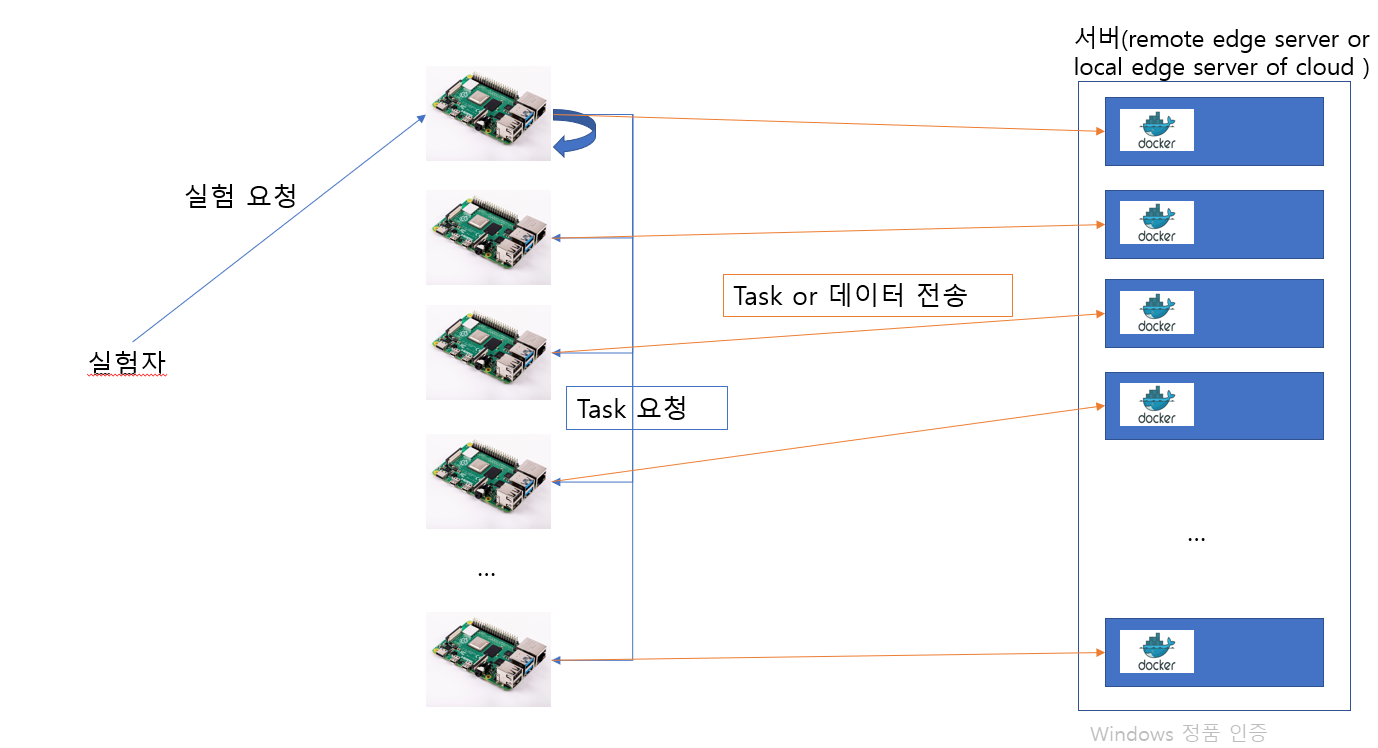
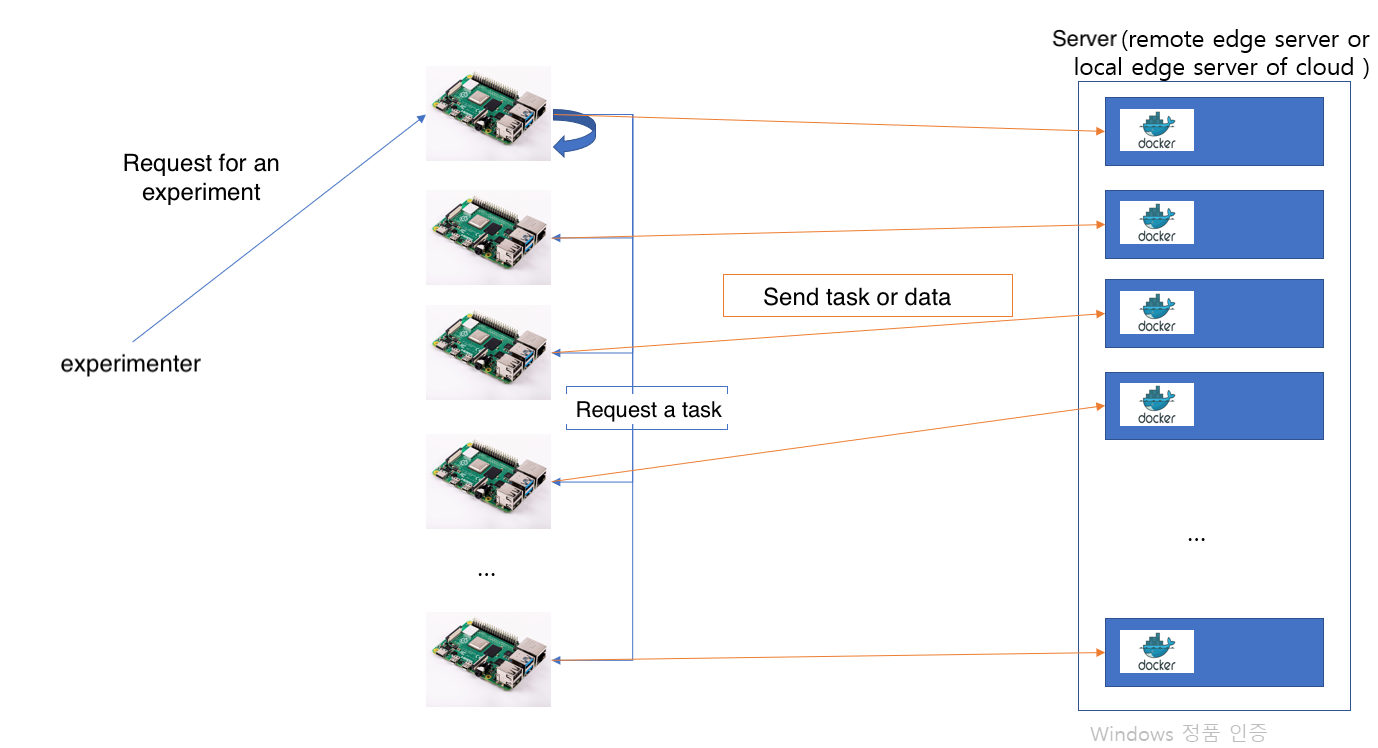
Translate client README.md into English

diff --git a/code/client/Readme.md b/code/client/Readme.md
@@ -1,149 +1,146 @@
 DOM Client Readme
-* client 폴더
-    * client_app_image.py : 이미지 추론 관련 api 및 함수
-    * client_batch_zip.py : 이미지 압축을 batch로 나누어 압축 후 전송(실험 하려 했으나 무산, 코드가 제대로 작동하는지는 확인 해봐야함.)
-    * client_combine.py : 영상 데이터와 이미지 데이터를 같이 전송하는 실험 관련 api 및 함수
-    * client image.py : 이미지 전송 관련 api 및 함수 
-    * client_mqtt.py : mqtt 전송 관련 api 및 함수
-    * client_socket.py : socket을 이용한 전송 관련 api 및 함수 
-    * client_text.py : text 데이터 전송 관련 api 및 함수
-    * client_video.py : 영상 데이터 전송 관련 api 및 함수 
-* app.py : main (실행)
-* client_request.py : request 관련 코드 
-* config.py : device 별 config 값 세팅(git ignore)
+* client folder 
+    * client_app_image.py : APi and functions related to Image inference 
+    * client_batch_zip.py : Compress and transfer the image by dividing it into batches
+    * client_combine.py : Experiment-related api and functions that transmit image data and image data together
+    * client image.py : APi and functions related to image transfer 
+    * client_mqtt.py : APi and functions related to mqtt transfer
+    * client_socket.py : APi and functions related to transmission using sockets 
+    * client_text.py : APi and functions related to text data transfer
+    * client_video.py : APi and functions related to video data transfer 
+* app.py : main (run)
+* client_request.py : Request related code
+* config.py : Setting the config value by device (git ignore)
     ```
     IP = {
-    'video_path': '/home/dom/dom/videos/',  # 영상 데이터가 저장된 위치
-    'img_path' : '/home/dom/dom/images/',   # 이미지 데이터가 저장된 위치
-    'server': '155.230.36.27:50011', # DOM: 데이터를 보낼 서버 주소, 현재 DOM 구조 상 각 디바이스 별로 주소가 다르므로 디바이스 별로 따로 세팅 해줘야함. KSV 에서는 사용하지 않아서 신경쓸 필요 X
-    'clients':['155.230.36.58','155.230.36.220','155.230.36.221','155.230.36.222','155.230.36.241','155.230.36.248','155.230.36.250','155.230.36.244','155.230.36.249','155.230.36.242','155.230.36.243','155.230.36.245','155.230.36.246','155.230.36.247','155.230.36.251','155.230.36.252','155.230.36.253'],# DOM: control(?)할 device에만 전체 IP를 작성해주고 나머지 device에서는 따로 신경쓰지 않아도 된다.  KSV 에서는 사용하지 않아서 신경쓸 필요 X
-    'socket_host': '59.27.74.76', # socket 전송 시 서버 IP, 기기별로 변경
-    'socket_post' : '50025',  # socket 전송시 사용한  port, 기기별로 변경
-    'webdav' : '/home/dom/webdav/',  # KSV : webdav 공유 폴더 , 이미지 추론 결과 저장
-    'volumeID': 'pod1' # KSV 데모시 사용
+    'video_path': '/home/dom/dom/videos/',  # Location where image data is stored
+    'img_path' : '/home/dom/dom/images/',   # Location where the image data is stored
+    'server': '155.230.36.27:50011', # DOM: Server address to send data / due to the current DOM structure, the address is different for each device, so it is necessary to set it separately for each device.
+    'clients':['155.230.36.58','155.230.36.220','155.230.36.221','155.230.36.222','155.230.36.241','155.230.36.248','155.230.36.250','155.230.36.244','155.230.36.249','155.230.36.242','155.230.36.243','155.230.36.245','155.230.36.246','155.230.36.247','155.230.36.251','155.230.36.252','155.230.36.253'],# DOM: Write the entire IP only on the device to be controlled, and you don't have to pay attention to the rest of the devices.
+    'socket_host': '59.27.74.76', # Server IP, changing by device when sending sockets
+    'socket_post' : '50025',  # Server port, changing by device when sending sockets
     }
     ```
-* image_classification.py : 이미지 추론 코드
-* videoCompress.py : 영상 압축 코드 -> zip으로 압축 아닌 ffmpeg로 영상 압축, 영상 자체의 용량을 줄여줌
-* socket_client.py : socket 전송(udp, tcp)
-* update_device.py : 전체 pi기기 코드 업데이트(git)
+* image_classification.py : Image inference code
+* videoCompress.py : Image compression code -> Compress the image with ffmpeg rather than zip, reducing the capacity of the image itself.
+* socket_client.py : Socket transfer(udp, tcp)
+* update_device.py : Update full Raspberry pi's code (git)
 
 
-* upload.py 전체 코드 (합쳐져 있는 코드)
 
-## server와 client의 구조
-![구조](image/structure.PNG)
+## How server and client work
+![structure](image/structure.PNG)
 
 
-## 이외의 TIP
+## TIP
 ---
-* IP 변경되면 PI 기기의 /etc/hosts/ 의 dom IP변경 해주기
+* If IP is changed, change the dom IP of /etc/hosts/ of the PI device.
 
 
-* 일반 계정 git pull 권한 해결
+* Resolve general account git pull permissions
 sudo chmod a+rwx .git/FETCH_HEAD
 
-* gitlab id/password 저장
+* Save gitlab id/password
 git config --global credential.helper store
 
-* API Curl 명령어 예시
+* API Curl Command Example
 
 ```
-모든 디바에스에게 (비디오) 
+To all devices (video) 
 curl -d "limit=16&is_zip=T" -X POST http://ip:port/upload_all_video
-한 디바이스에게 (비디오)
+To one device (video)
 curl -d "limit=16" -X POST http:ip:port/upload_video
-한 디바이스에게(비디오 압축)
+To one device (Video compression)
 curl -d "limit=16" -X POST http:ip:port/upload_video_zip
 
-모든 디바이스에게(비디오 전체 한번에 압축) limit 그대로 (40)
+To all devices (Compress the entire video at once) limit remains the same (40)
 curl -d "limit=16" -X POSt http:ip:port/upload_all_video_zip
-한 디바이스에게(이미지 전체 한번에 압축)
+To one device(Compress the entire image at once)
 curl -d "limit=16" -X POST http:ip:port/upload_zip_all
 
-모든 디바이스에게 (이미지)
+To all devices (image)
 curl -d "img_cnt=10000&is_predict=F&is_zip=F" -X POST http:ip:port/upload_all_img
-한 디바이스에게 (이미지)
+To one device (image)
 curl -d "img_cnt=10000&is_predict=T" -X POST http:ip:port/upload_image
-한 디바이스에게(이미지 압축)
+To one device(image compression)
 curl -d "img_cnt=10000&is_predict=T" -X POST http:ip:port/upload_image_zip
 
-모든 디바이스에게(이미지 전체 한번에 압축)
+To all devices (Compress the entire image at once)
 curl -d "img_cnt=10000" -X POSt http:ip:port/upload_all_img_zip
-한 디바이스에게(이미지 전체 한번에 압축)
+To one device(Compress the entire image at once)
 curl -d "img_cnt=10000" -X POST http:ip:port/upload_img_zip_all
 
-모든 디바이스에게(이미지 batch 압축)
+To all devices (Image batch compression)
 curl -d "img_cnt=10000&batch=2" -X POST http://ip:port/upload_batch_img_zip
 curl -d "img_cnt=10000&batch=2" -X POST http://ip:port/upload_img_zip_batch
 
-모든 디바이스에게 데이터 이질성 : 
-img_cnt == 0 일경우 video 100%
-limit == 0 일 경우 img 100%
+To all devices (Data heterogeneity) : 
+if img_cnt == 0, video 100%
+if limit == 0, img 100%
 curl -d "img_cnt=80000&limit=16" -X POST http://ip:port/upload_hetero
 
-모든 디바이스에게(mqtt, 비디오)
+To all devices (mqtt, video)
 curl -d "limit=16" -X POST http://ip:port/upload_all_video_mqtt
-한 디바이스에게 (mqtt, 비디오)
+To one device (mqtt, video)
 curl -d "limit=16" -X POST http:ip:port/upload_video_mqtt
 
-모든 디바이스에게(mqtt, 이미지)
+To all devices(mqtt, image)
 curl -d "img_cnt=10000" -X POST http://ip:port/upload_all_image_mqtt
-한 디바이스에게 (mqtt, 이미지)
+To one device (mqtt, image)
 curl -d "img_cnt=10000" -X POST http:ip:port/upload_image_mqtt
 
 jupyter notebook --ip=155.230.34.159 --port=50000
 
-모든 디바이스에게 (mqtt, text)
+To all devices (mqtt, text)
 curl -d "limit=16" -X POST http://ip:60000/upload_all_txt_mqtt
-한 디바이스에게 (mqtt, text)
+To one device (mqtt, text)
 curl -d "limit=16" -X POST http://ip:60000/upload_txt_mqtt
 
 
-모든 디바이스에게 이미지 인식 딥러닝 처리1 요청(디바이스 내에서 처리)
+Image recognition deep learning processing 1 request from all devices(Processing within a device)
 curl -d "img_cnt=10000" -X POST http://ip:port/image/app/device
-한 디바이스에게 이미지 인식 딥러닝 처리1 요청
+Image recognition deep learning processing 1 request from one device
 curl -d "img_cnt=10000" -X POST http://ip:port/imagenet1_each
 
-모든 디바이스에게 이미지 인식 딥러닝 처리 2 요청(50 + 50)
+Image recognition deep learning processing 2 request from all devices(50 + 50)
 curl -d "img_cnt=10000" -X POST http://ip:port/image/app/offloading/half/each
 
-모든 디바이스에게 이미지 인식 딥러닝처리 3 요청 100%서버 오프로딩
+Image recognition deep learning processing 3 request from all devices 100% Server Offloading
 curl -d "img_cnt=10000" -X POST http://ip:port/image/app/offloading/full
 
 
-모든 디바이스 영상 모션 인식 딥러닝 처리1 요청
+Request all devices to process image motion recognition deep learning 1
 curl -d "limit=16" -X POST http://ip:60000/video1
-모든 디바이스 영상 모션 인식 딥러닝 처리2 (50 + 50)
+Request all devices to process image motion recognition deep learning 2 (50 + 50)
 curl -d "limit=16" -X POST http://ip:60000/video2
-모든 디바이스 영상 모션 인식 딥러닝처리3 100% 서버 오프로딩
+Request all devices to process image motion recognition deep learning 3 100% Server Offloading
 curl -d "limit=16" -X POST http://ip:60000/video3
 
-모든 디바이스에게 비디오 압축 요청 1
+Request video compression from all devices 1
 curl -d "limit=16" -X POST http://ip:port/video_compress1
-한 디바이스에게 비디오 압축 요청2
+Request video compression from one device 2
 curl -d "limit=2" -X POST http://ip:port/video_compress1_each
 
-모든 디바이스에게 비디오 압축 요청 2
+Request video compression from all devices 2
 curl -d "limit=16" -X POST http://ip:port/video_compress2
 
-모든 디바이스 socket tcp 
+Socket tcp communication to all devices 
 #curl -d "limit=2&protocol=tcp&isZip=F" -X POST http://ip:port/upload_all_socket
 curl -d "limit=2&protocol=tcp" -X POST http://ip:port/upload_all_socket : 일단 isZip 막아놓음
 
-모든 디바이스 socket udp
+Socket udp communication to all devices
 curl -d "limit=2&protocol=udp" -X POST http://ip:port/upload_all_socket : 일단 isZip 막아놓음
 
-모든 디바이스에게 텍스트 nGB 보내기
+Send text nGB to all devices
 curl -d "limit=5" -X POST http://ip:60000/upload_all_text 
-한 디바이스 서버에게 텍스트 nGB 보내기
+Send text nGB to one device
 curl -d "limit=5" -X POST http://ip:60000/upload_text
 
-모든 파이에게 (비디오 압축 ) 
+To all the raspberry pies (Video compression) 
 curl -d "limit=4" -X POST http://ip:port/video1
-파이 반 서버 반  파이에게 (비디오 압축 ) 
+To half Raspberry pies, half servers (Video compression) 
 curl -d "limit=5" -X POST http://ip:port/video2
-서버  서버에게 (비디오 압축 ) 
+To all servers (Video compression) 
 curl -d "limit=5" -X POST http://ip:port/video3
 
 ```
